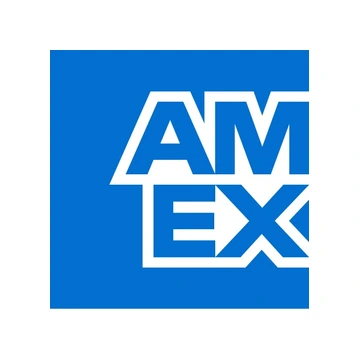
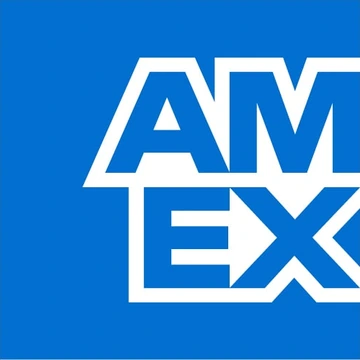
feat(pagos): redes en tira deslizable en celular y Amex con esquinas redondeadas

diff --git a/components/Payments.tsx b/components/Payments.tsx
@@ -65,16 +65,26 @@ export function Payments() {
 
       {/* tarjetas y redes como íconos de app */}
       <p className="relative mt-14 text-[13px] font-semibold uppercase tracking-[.14em] text-[#86868b]">Tarjetas, billeteras y redes</p>
-      <ul className="relative mx-auto mt-6 flex max-w-[860px] flex-wrap justify-center gap-x-4 gap-y-5 sm:gap-x-5">
+      {/* escritorio: grilla */}
+      <ul className="relative mx-auto mt-6 hidden max-w-[860px] flex-wrap justify-center gap-x-5 gap-y-5 sm:flex">
         {NETWORKS.map((n, i) => (
           <li key={n.alt} className="ios-app flex flex-col items-center gap-2" style={{ "--d": `${500 + i * 45}ms` } as React.CSSProperties}>
-            <span className="grid aspect-square w-[52px] place-items-center rounded-[22.5%] sm:w-[58px] bg-white shadow-[0_1px_2px_rgba(0,0,0,.06),0_6px_16px_rgba(0,0,0,.06)] ring-1 ring-black/[.04]">
-              <img src={n.src} alt="" className="h-full w-full" />
-            </span>
+            <NetworkIcon src={n.src} />
             <span className="max-w-[72px] truncate text-[11px] text-[#3a3a3c]">{n.alt}</span>
           </li>
         ))}
       </ul>
+      {/* celular: tira que se desliza sola (y se puede arrastrar) */}
+      <div className="net-marquee relative mt-6 sm:hidden" aria-label="Tarjetas, billeteras y redes">
+        <ul className="net-track flex w-max gap-4 px-2">
+          {[...NETWORKS, ...NETWORKS].map((n, i) => (
+            <li key={`${n.alt}-${i}`} aria-hidden={i >= NETWORKS.length} className="flex w-[64px] flex-col items-center gap-2">
+              <NetworkIcon src={n.src} />
+              <span className="max-w-[72px] truncate text-[11px] text-[#3a3a3c]">{n.alt}</span>
+            </li>
+          ))}
+        </ul>
+      </div>
 
       {/* formas de cobro */}
       <p className="relative mt-12 text-[13px] font-semibold uppercase tracking-[.14em] text-[#86868b]">Cobrá como quieras</p>
@@ -93,5 +103,13 @@ export function Payments() {
         Además: efectivo con cálculo de vuelto, transferencia, QR interoperable y DEBIN.
       </p>
     </section>
+  );
+}
+
+function NetworkIcon({ src }: { src: string }) {
+  return (
+    <span className="grid aspect-square w-[52px] place-items-center overflow-hidden rounded-[22.5%] bg-white shadow-[0_1px_2px_rgba(0,0,0,.06),0_6px_16px_rgba(0,0,0,.06)] ring-1 ring-black/[.04] sm:w-[58px]">
+      <img src={src} alt="" className="h-full w-full" />
+    </span>
   );
 }

diff --git a/app/globals.css b/app/globals.css
@@ -895,3 +895,17 @@ select.contact-input:has(option[value=""]:checked) { color: rgba(184, 174, 220, 
   -webkit-box-shadow: 0 0 0 1000px #f2f2f7 inset;
   transition: background-color 9999s ease-out 0s;
 }
+
+/* redes de pago en celular: tira infinita que se desliza; al tocarla se puede arrastrar */
+.net-marquee {
+  overflow-x: auto; scrollbar-width: none; -webkit-overflow-scrolling: touch;
+  -webkit-mask-image: linear-gradient(90deg, transparent, #000 8%, #000 92%, transparent);
+  mask-image: linear-gradient(90deg, transparent, #000 8%, #000 92%, transparent);
+  padding-bottom: 6px;
+}
+.net-marquee::-webkit-scrollbar { display: none; }
+@media (prefers-reduced-motion: no-preference) {
+  .net-track { animation: net-scroll 28s linear infinite; }
+  .net-marquee:active .net-track, .net-marquee:focus-within .net-track { animation-play-state: paused; }
+  @keyframes net-scroll { to { transform: translateX(-50%); } }
+}

diff --git a/lib/content.ts b/lib/content.ts
@@ -71,7 +71,7 @@ export const NETWORKS = [
   { src: "/images/payments/networks/visa.webp?v=2", alt: "Visa" },
   { src: "/images/payments/networks/mastercard.webp?v=2", alt: "Mastercard" },
   { src: "/images/payments/networks/maestro.webp?v=2", alt: "Maestro" },
-  { src: "/images/payments/networks/amex.webp?v=2", alt: "Amex" },
+  { src: "/images/payments/networks/amex.webp?v=3", alt: "Amex" },
   { src: "/images/payments/networks/naranjax.webp?v=2", alt: "Naranja X" },
   { src: "/images/payments/networks/cabal.webp?v=2", alt: "Cabal" },
   { src: "/images/payments/networks/diners.webp?v=2", alt: "Diners Club" },
